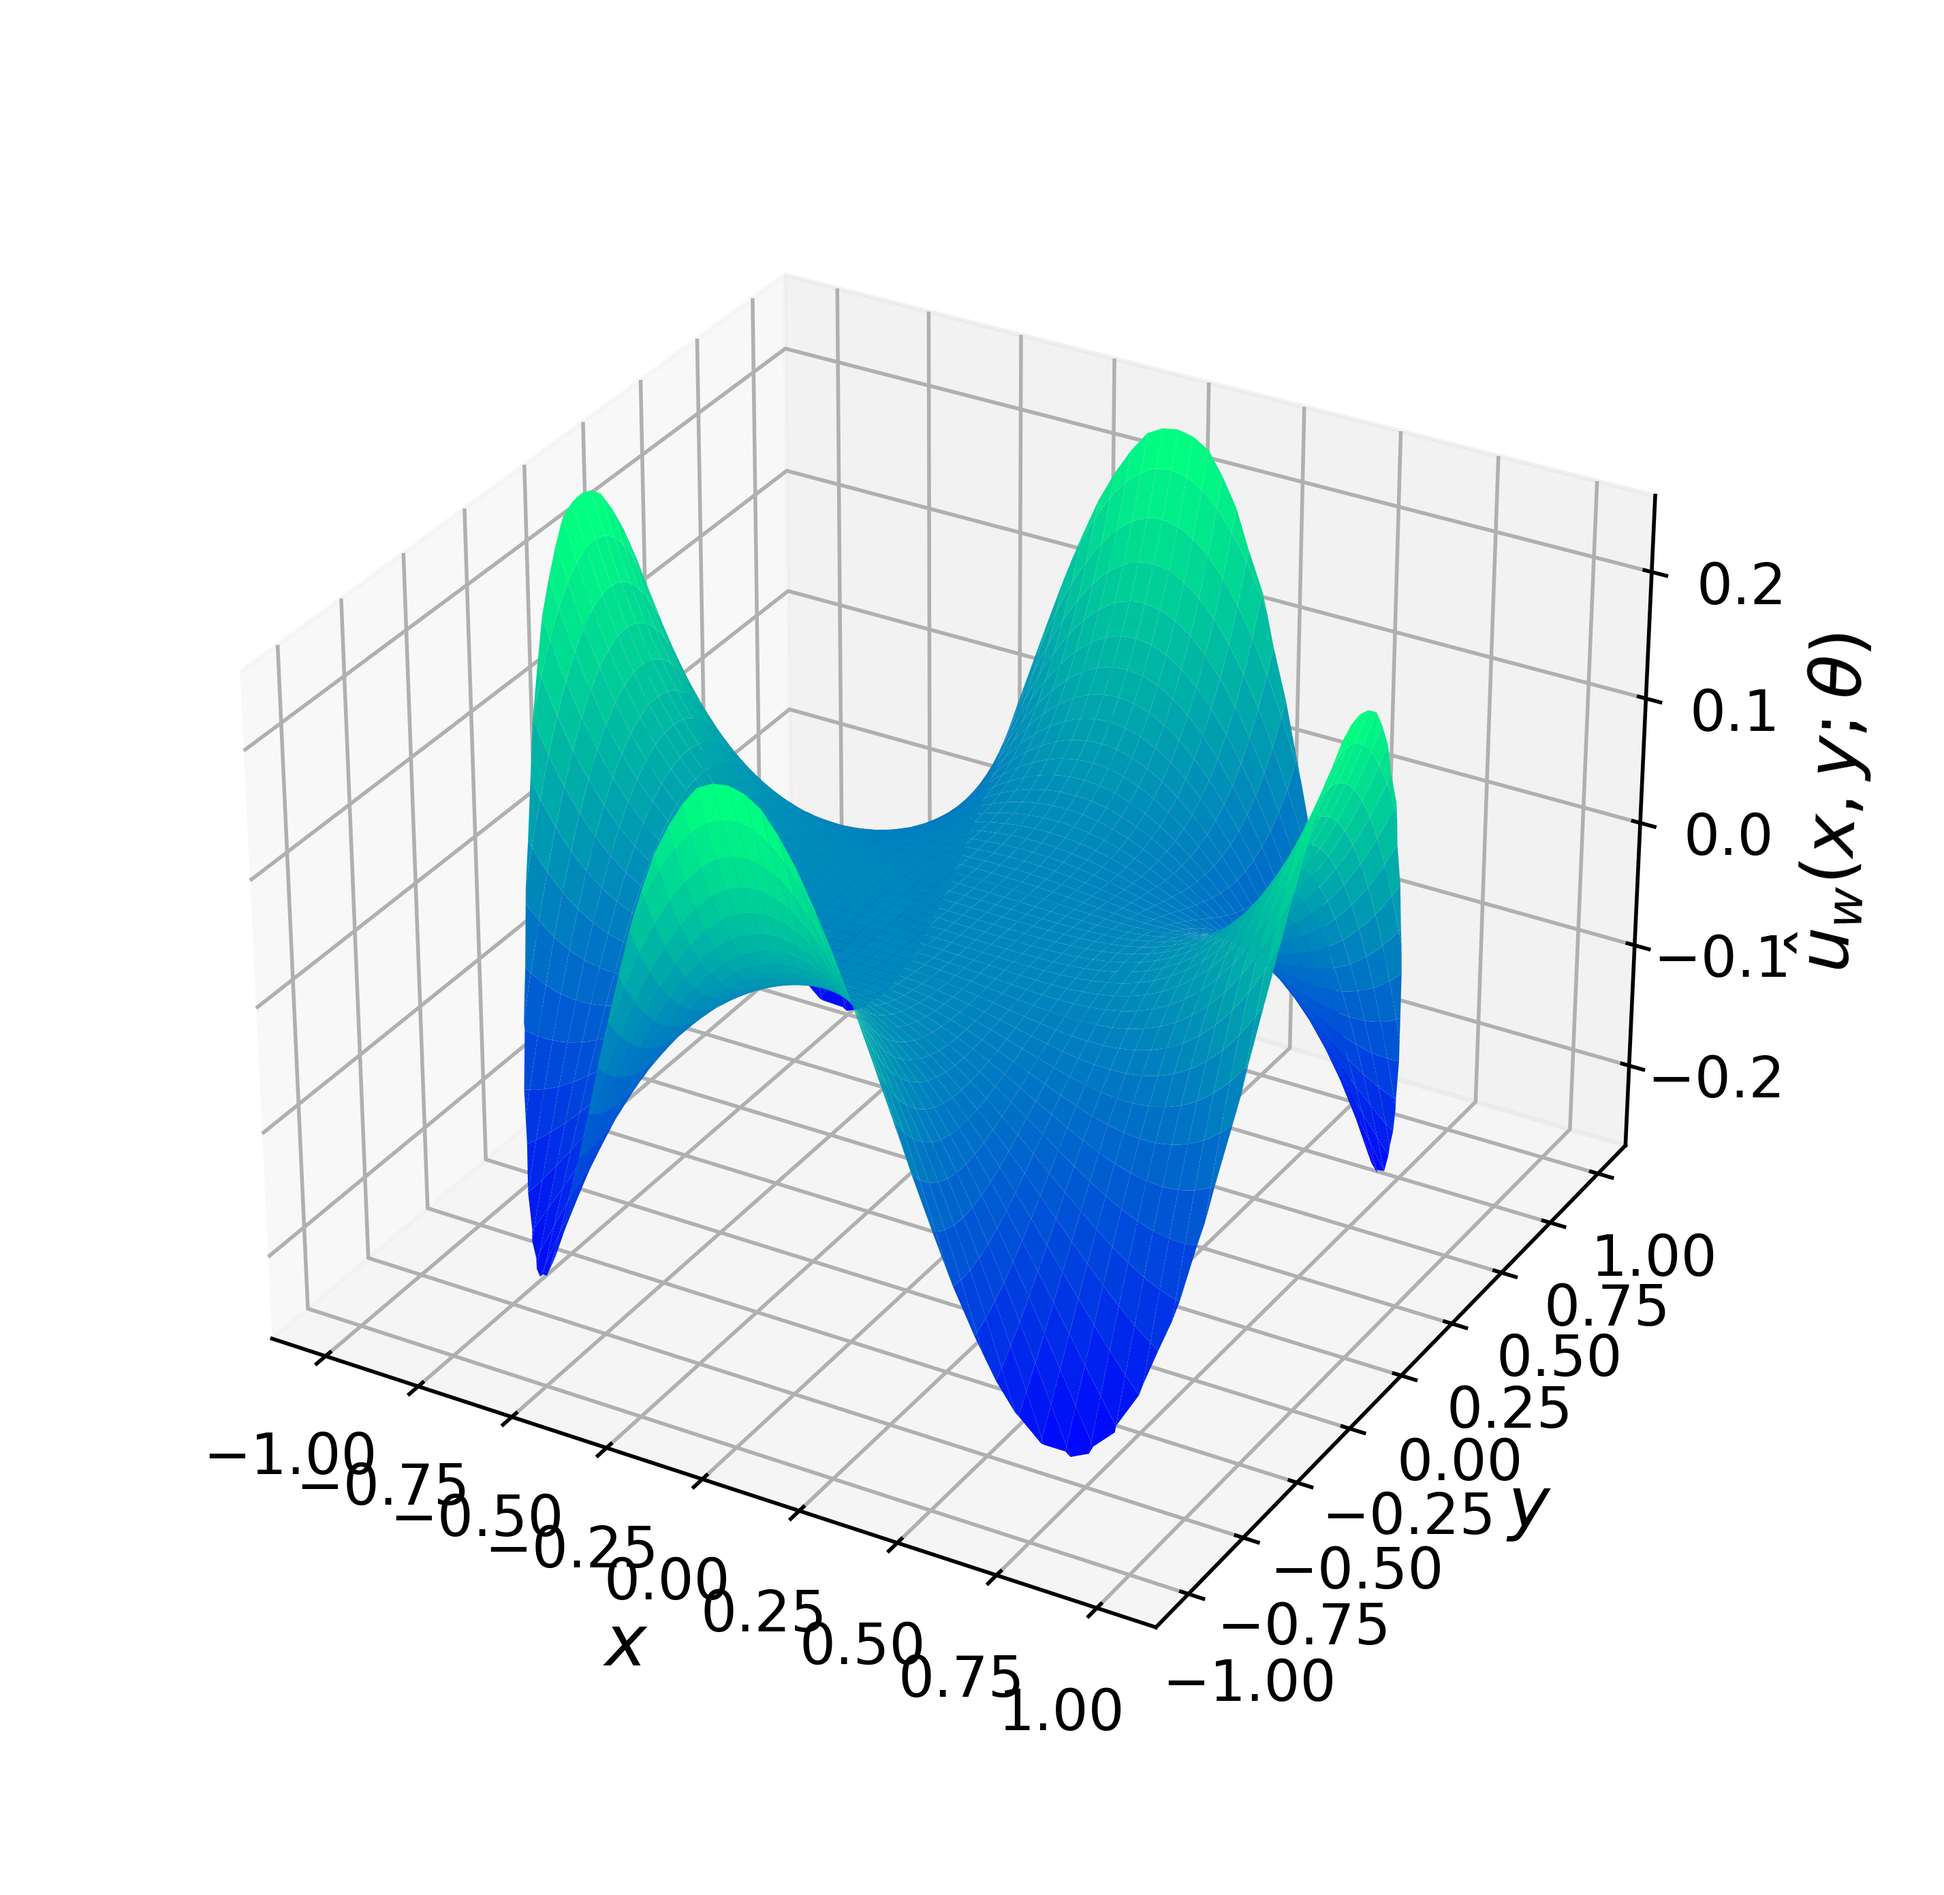
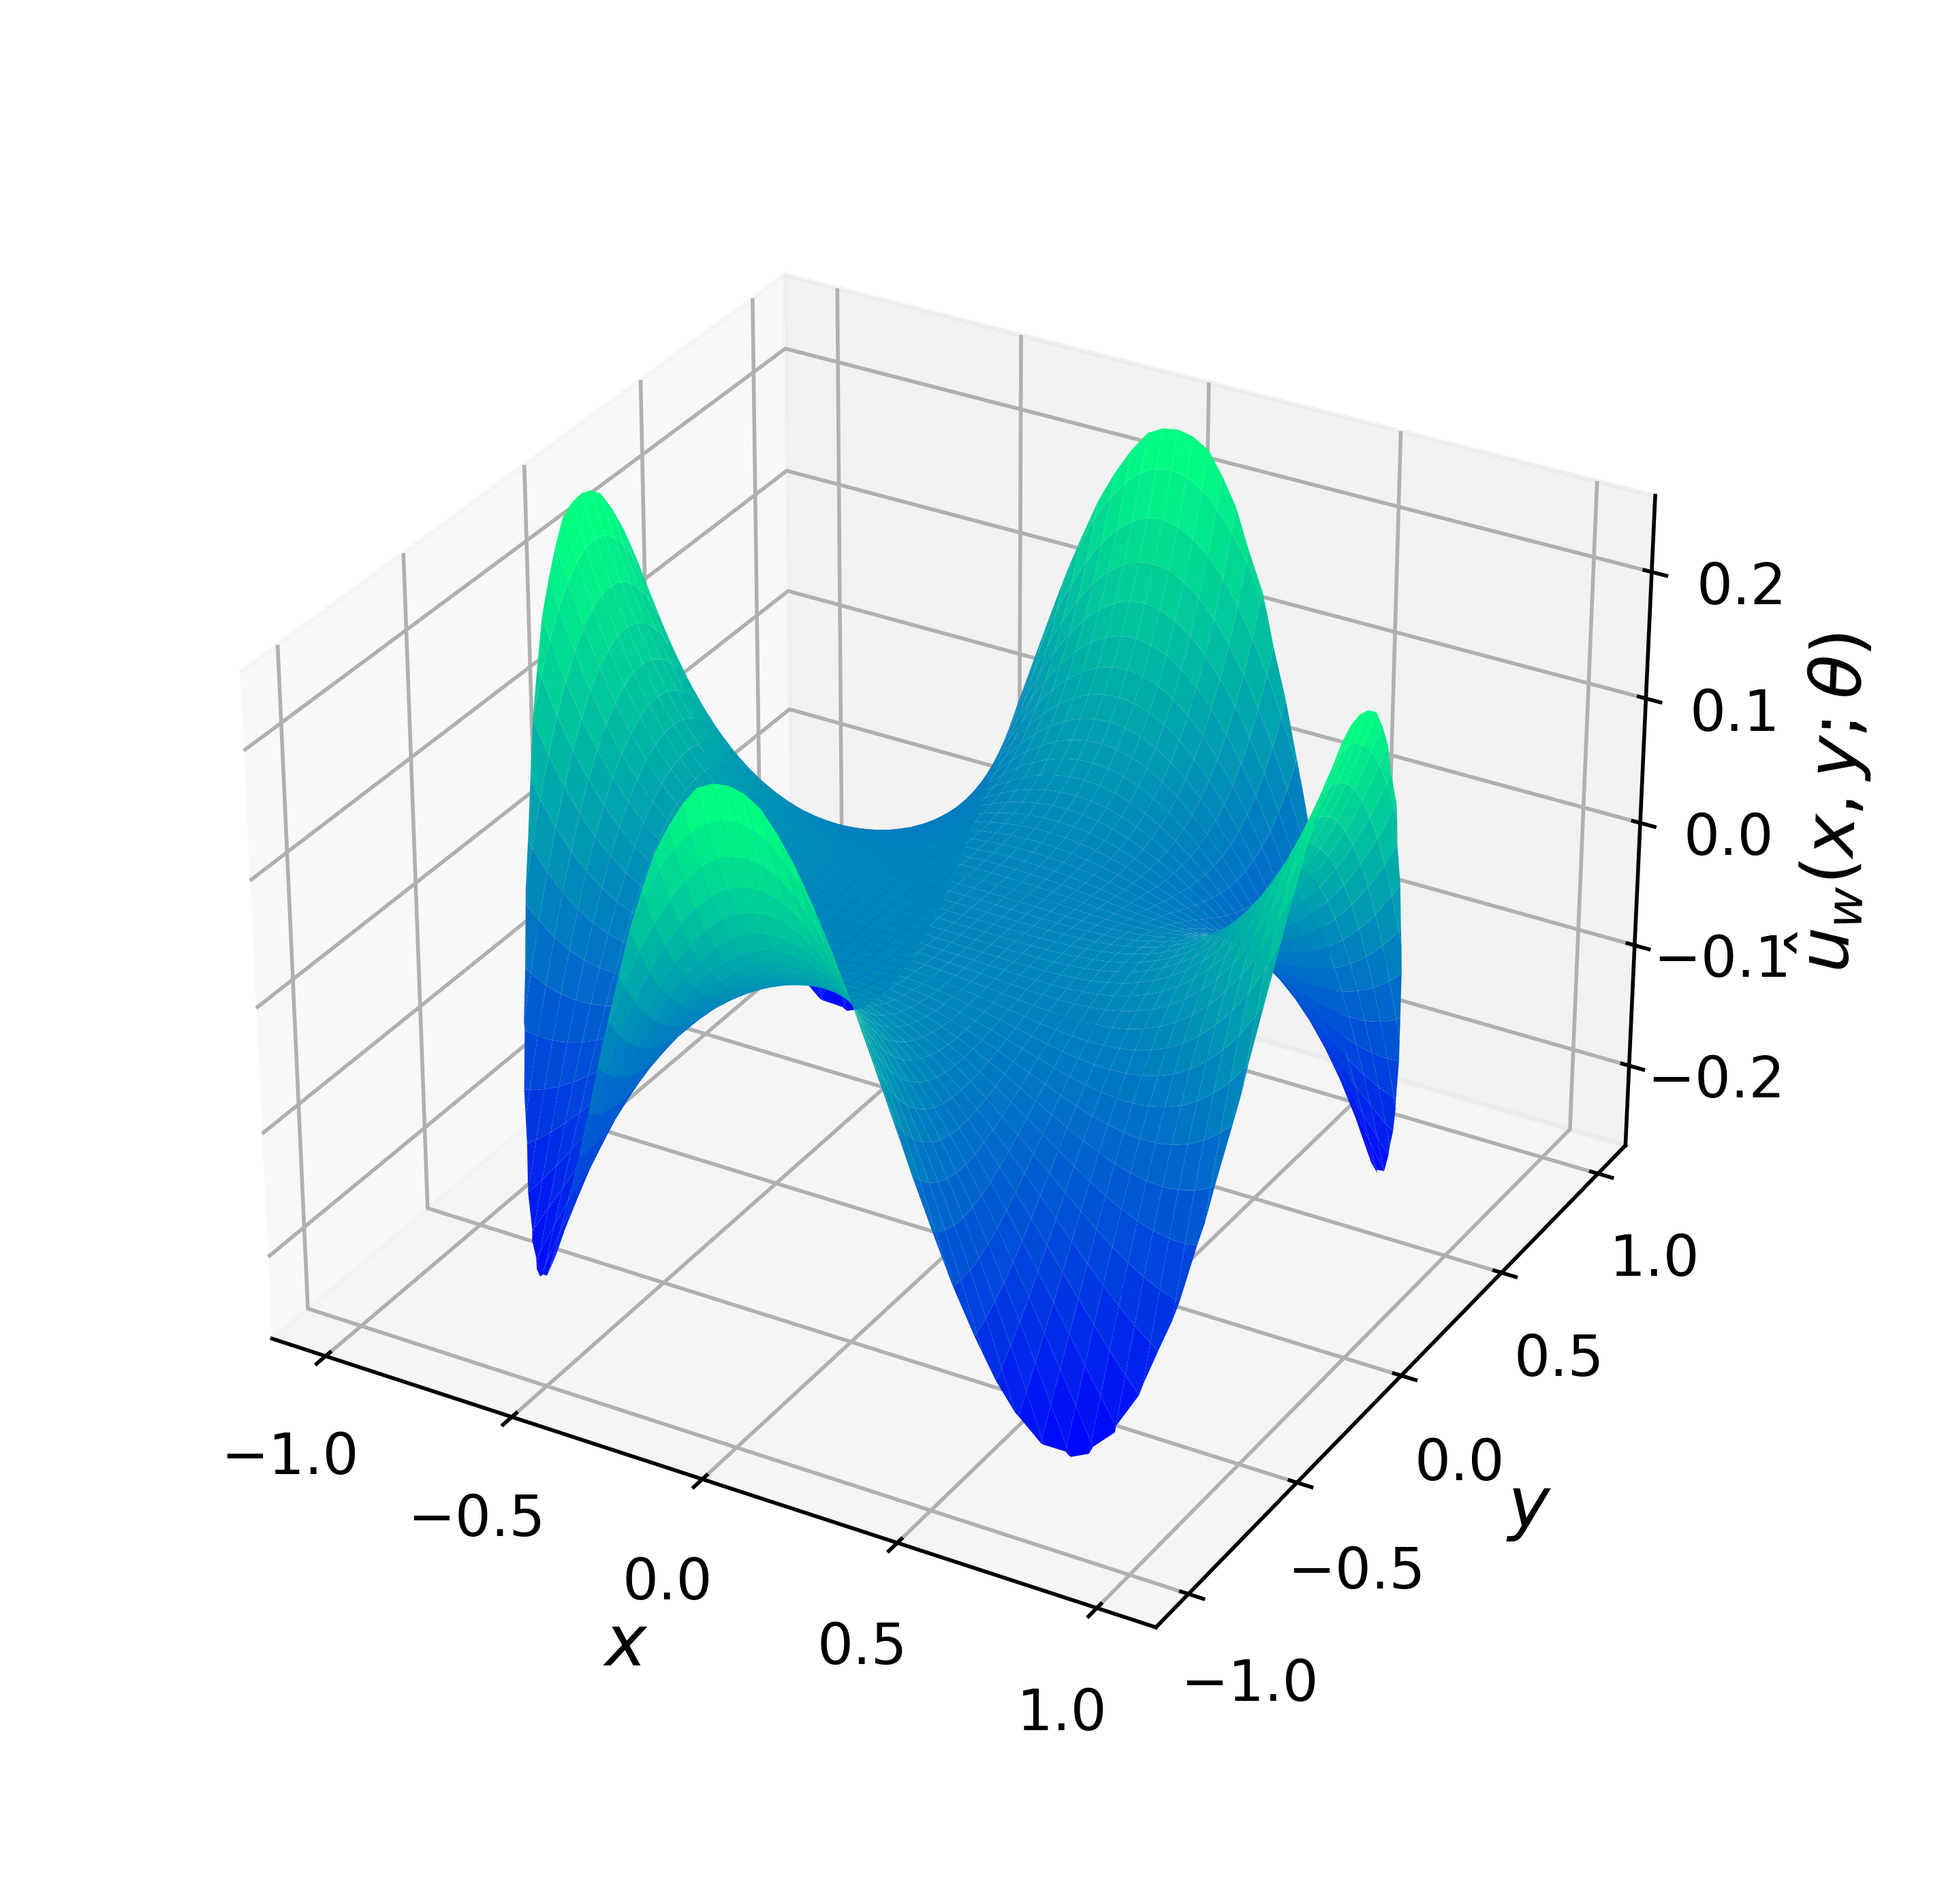
solution_plot updated

diff --git a/plotting.py b/plotting.py
@@ -34,6 +34,7 @@ References
     Journal of Computational Physics, 378, 686-707.
 """
 # Necessary libraries.
+import numpy as np                    # NumPy for numerical operations.
 import os, sys                        # OS and sys modules for file path operations.
 import torch                          # PyTorch library for tensor operations.
 import matplotlib.pyplot as plt       # Matplotlib for plotting.
@@ -252,6 +253,8 @@ def plot_solution_circle(
     ax.set_xlabel(r'$x$', fontsize = 15)
     ax.set_ylabel(r'$y$', fontsize = 15) if not time_dependent else ax.set_ylabel(r'$t$', fontsize = 15)
     ax.tick_params(axis = 'both', labelsize = 12)
+    ax.set_xticks(np.linspace(eje1[0].item(), eje1[-1].item(), 5))
+    ax.set_yticks(np.linspace(eje2[0].item(), eje2[-1].item(), 5))
     ax.zaxis.set_tick_params(labelsize = 12)
     if time_dependent:
         if parameters:
